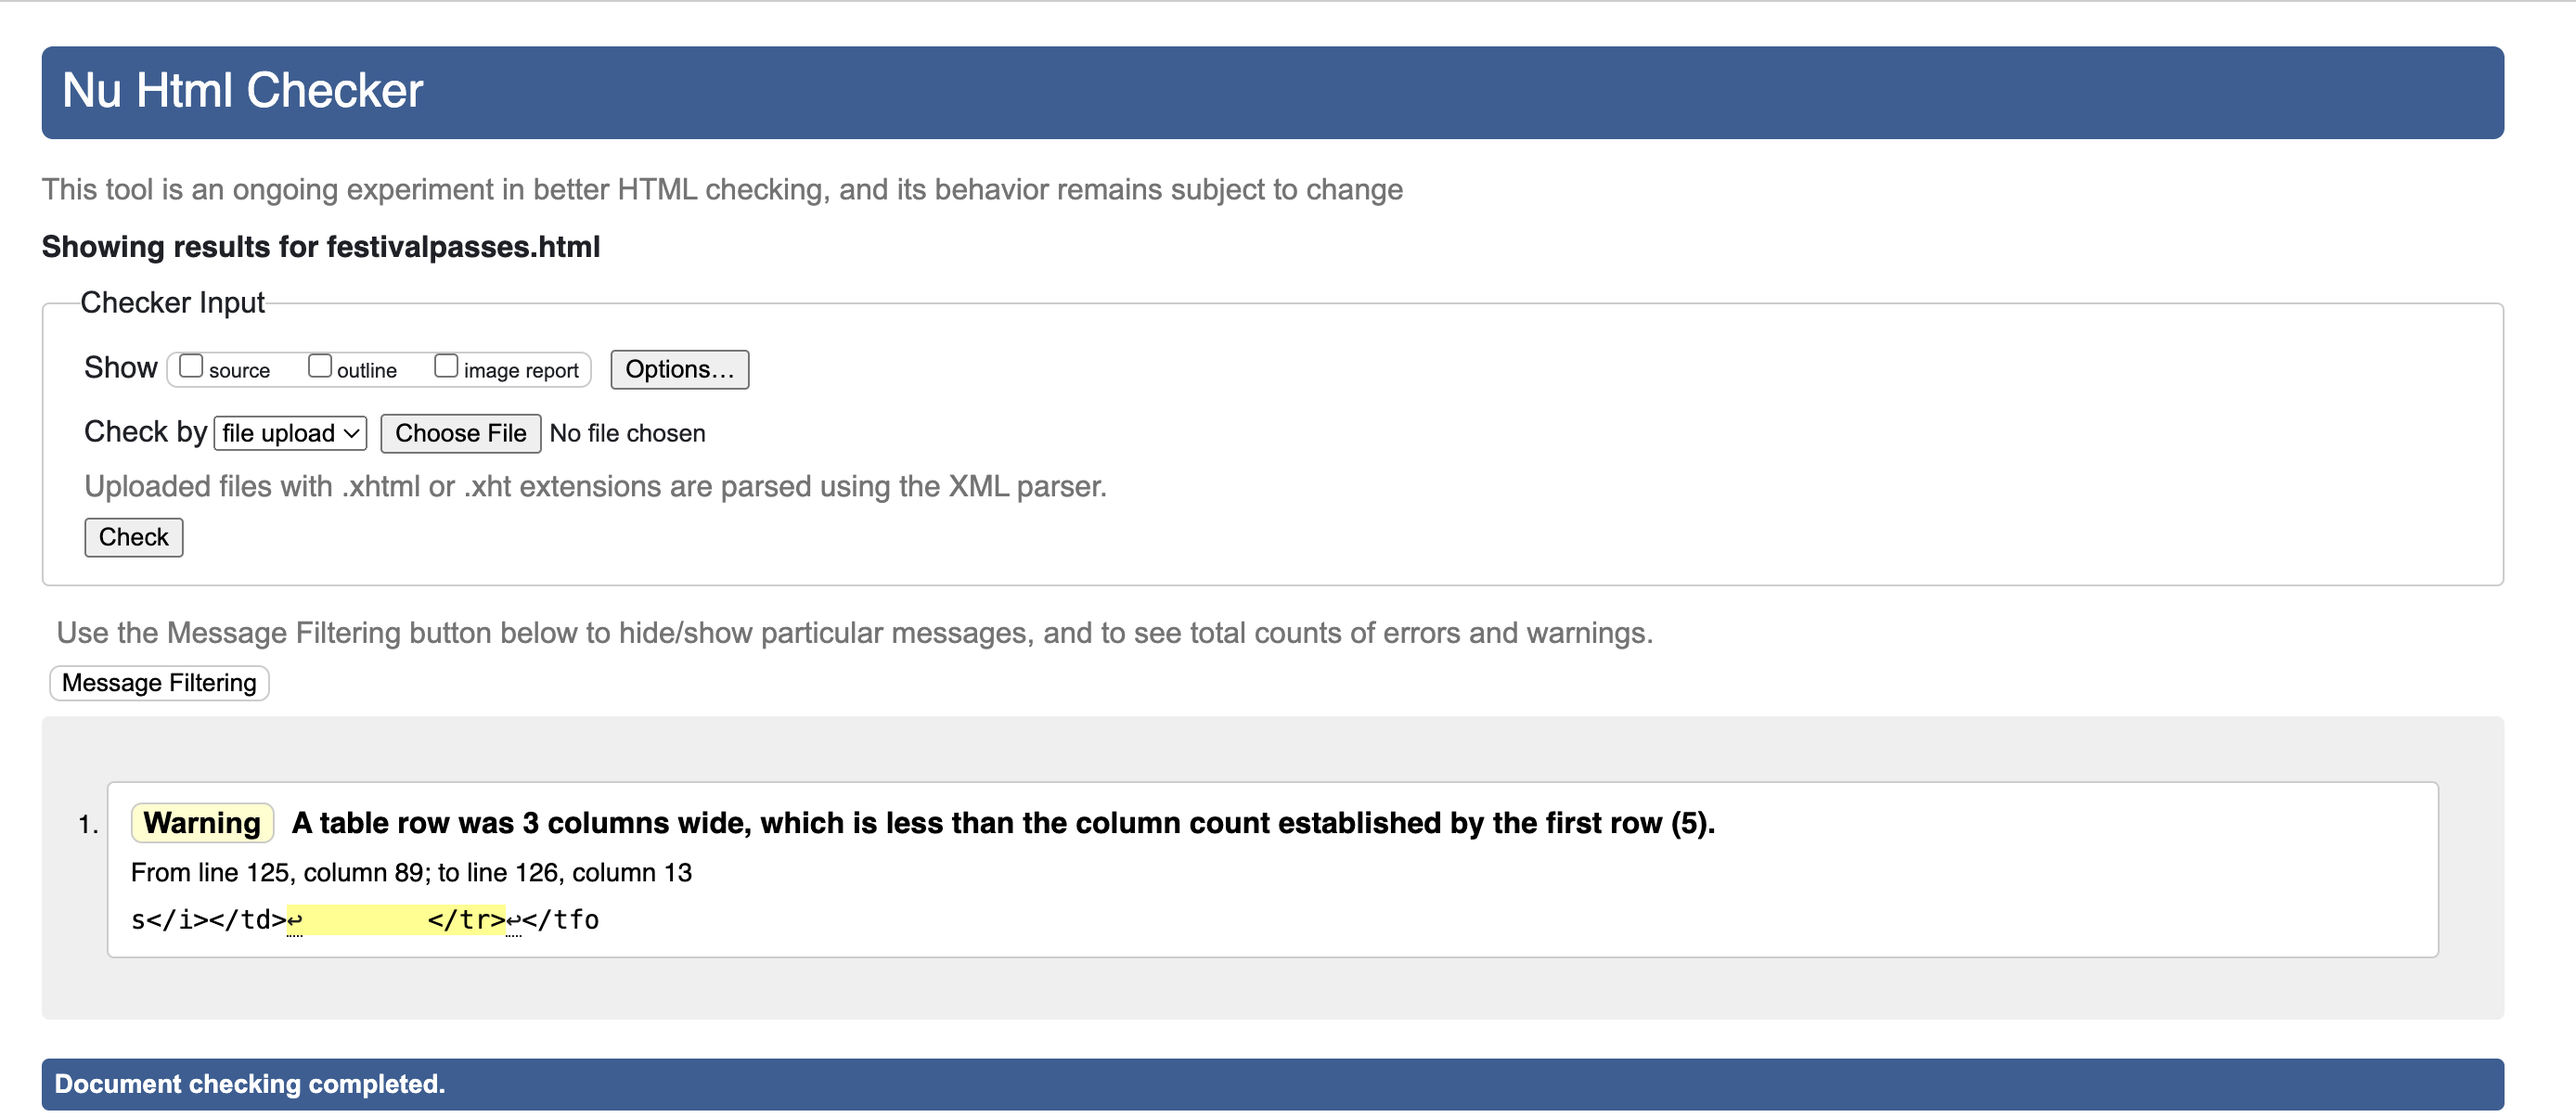
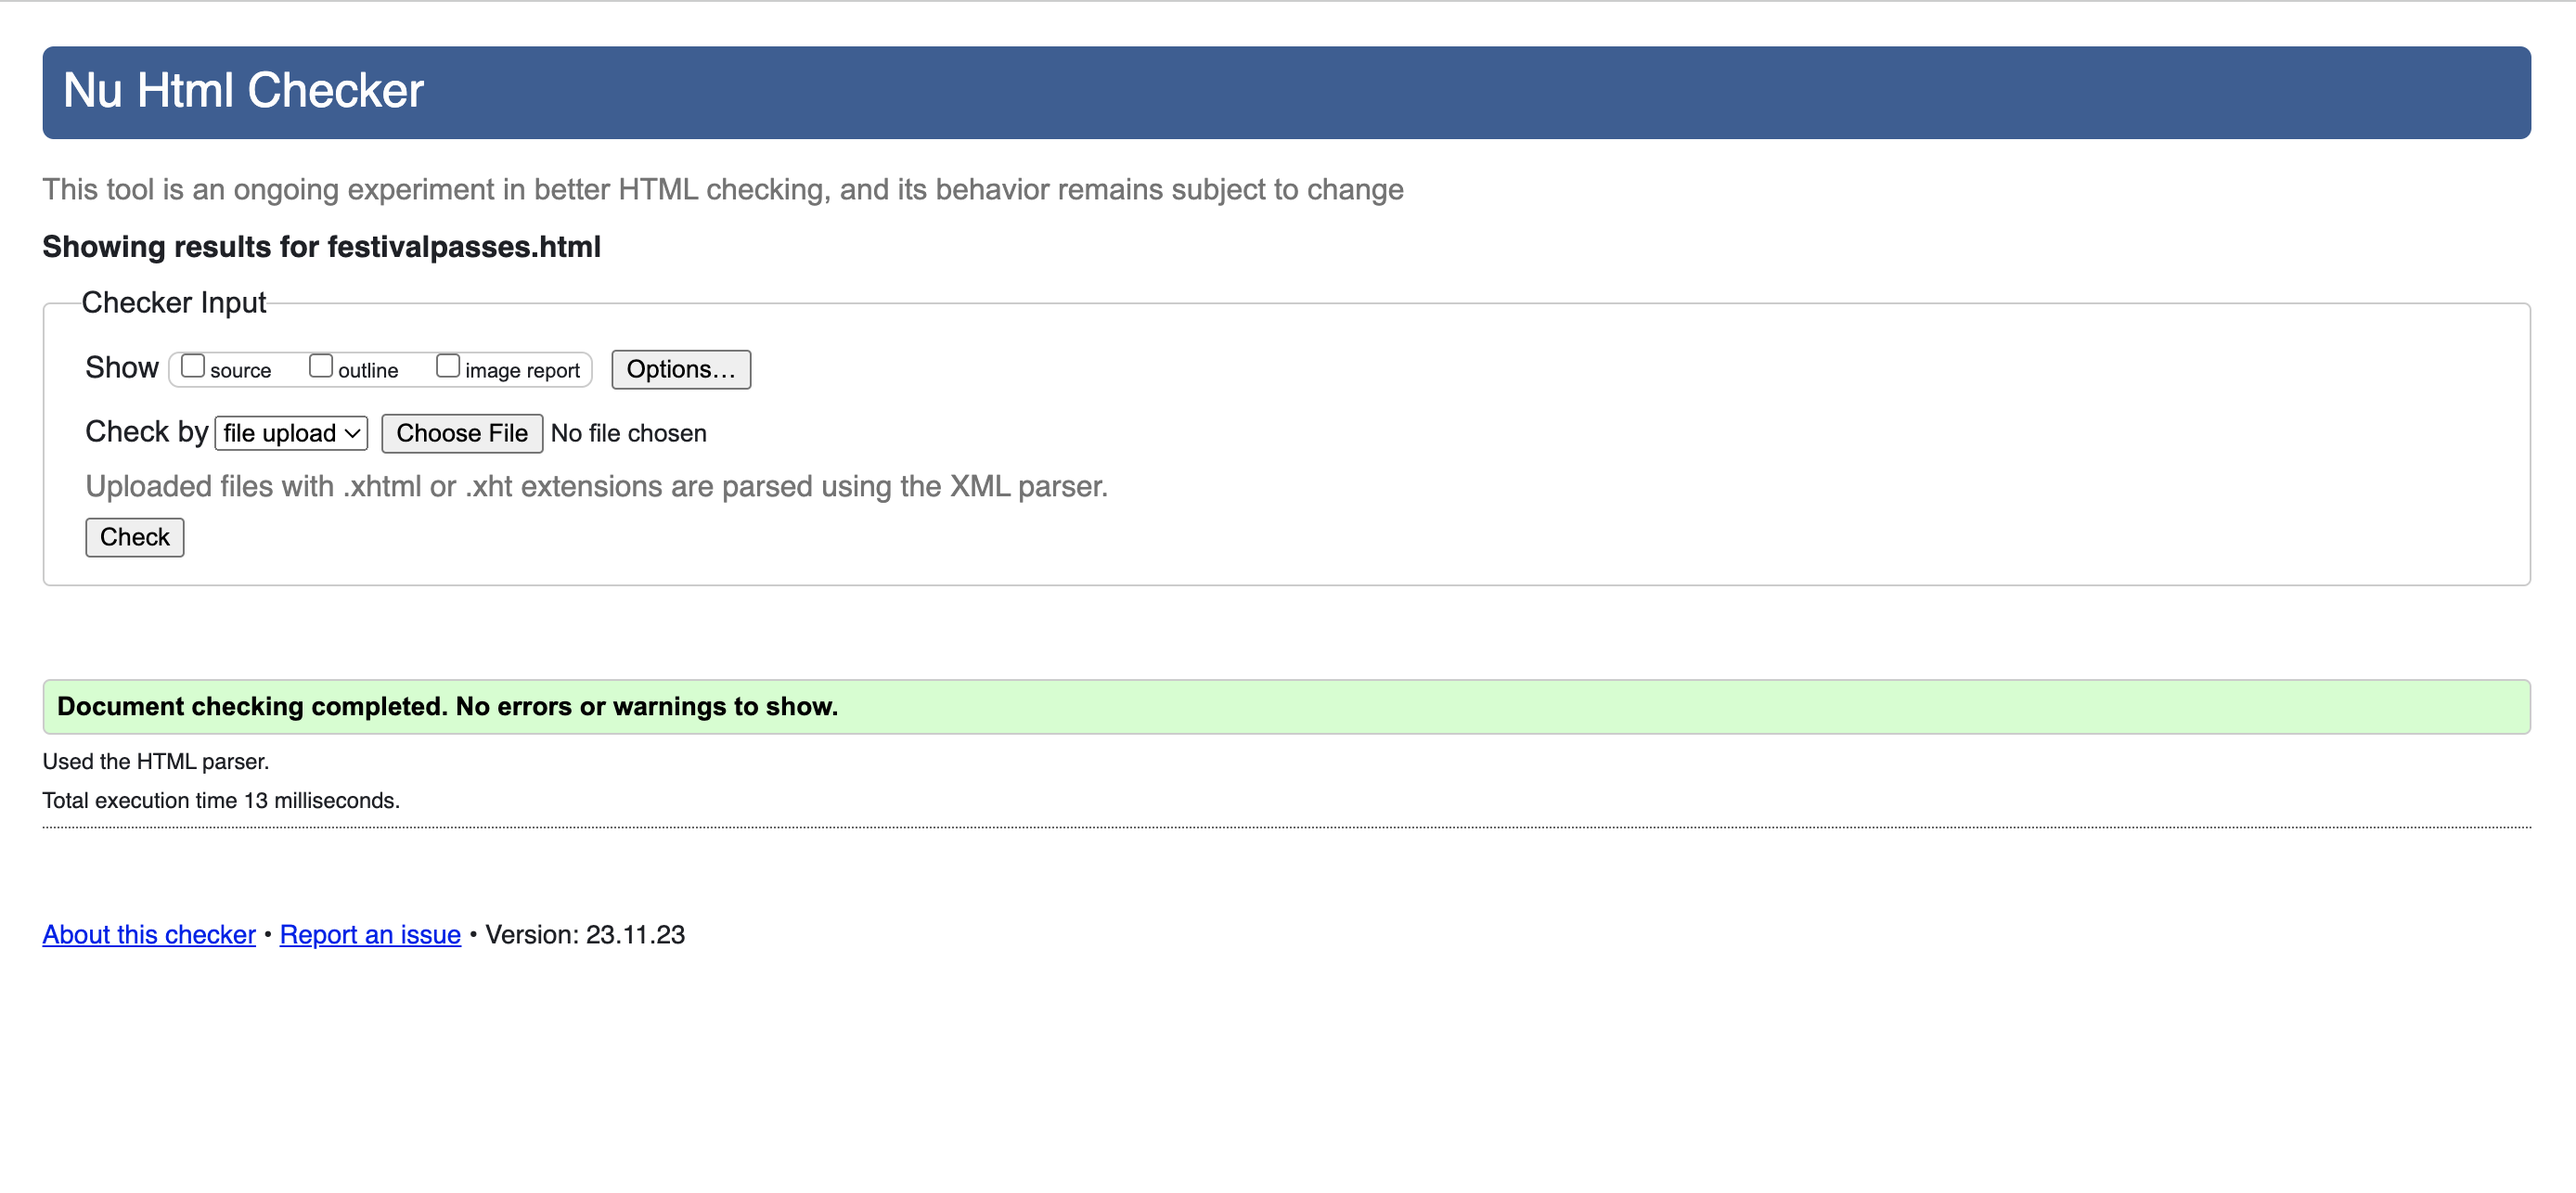
fixed table column overflow
added colspan to fix the column overflow on the table in festival passes page... things you come up with after you turn in for the night
now we're 100% clean on the html validator

Changed region(s): [[0.0, 0.0307, 0.9914, 0.4917], [0.0, 0.5532, 0.9914, 0.8605], [0.0, 0.9219, 0.9914, 1.0]]

diff --git a/Final Project website/SC Carter Website Finaln HTML:CSS/festivalpasses.html b/Final Project website/SC Carter Website Finaln HTML:CSS/festivalpasses.html
@@ -120,7 +120,7 @@
     </tbody>
     <tfoot>
         <tr>
-            <td class="additionalinfo">+ = plus taxes and service fees</td>
+            <td class="additionalinfo" colspan="3">+ = plus taxes and service fees</td>
             <td class="additionalinfo">*= must be ordered in advance</td>
             <td class="norefunds"><i>All ticket purchases are final, no refunds</i></td>
         </tr>
